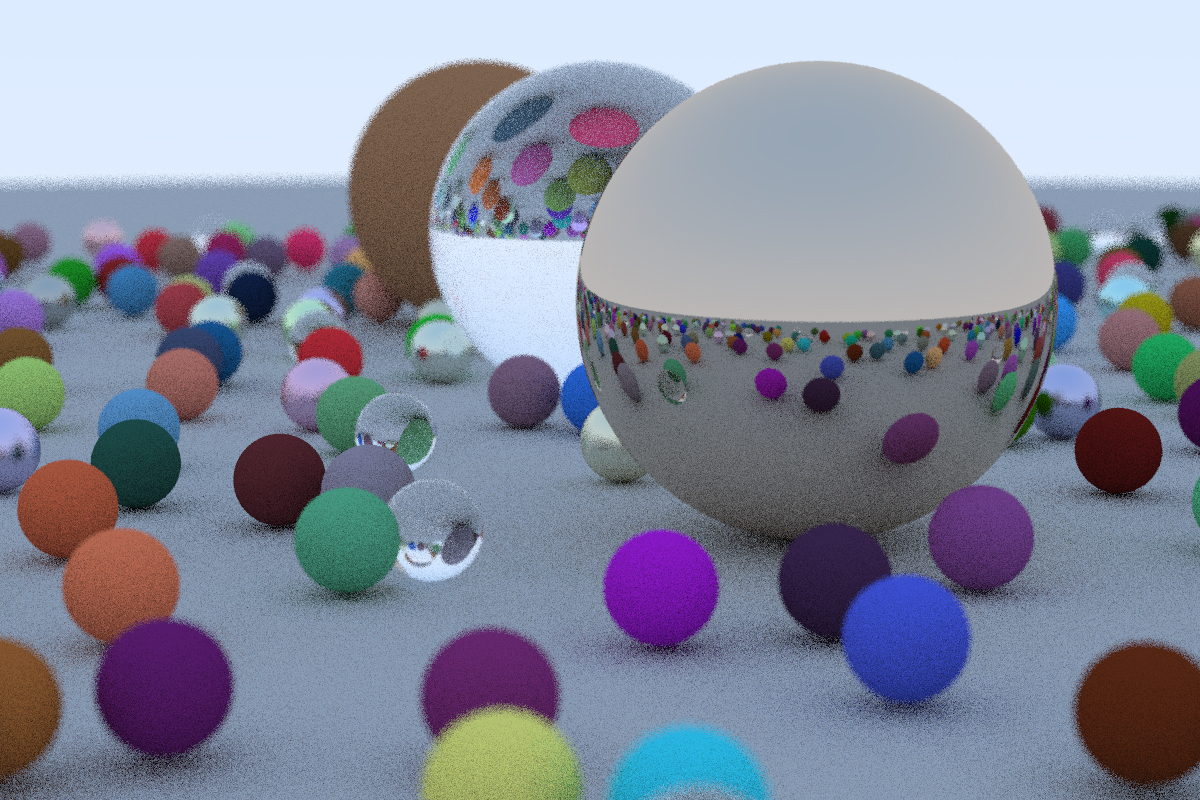
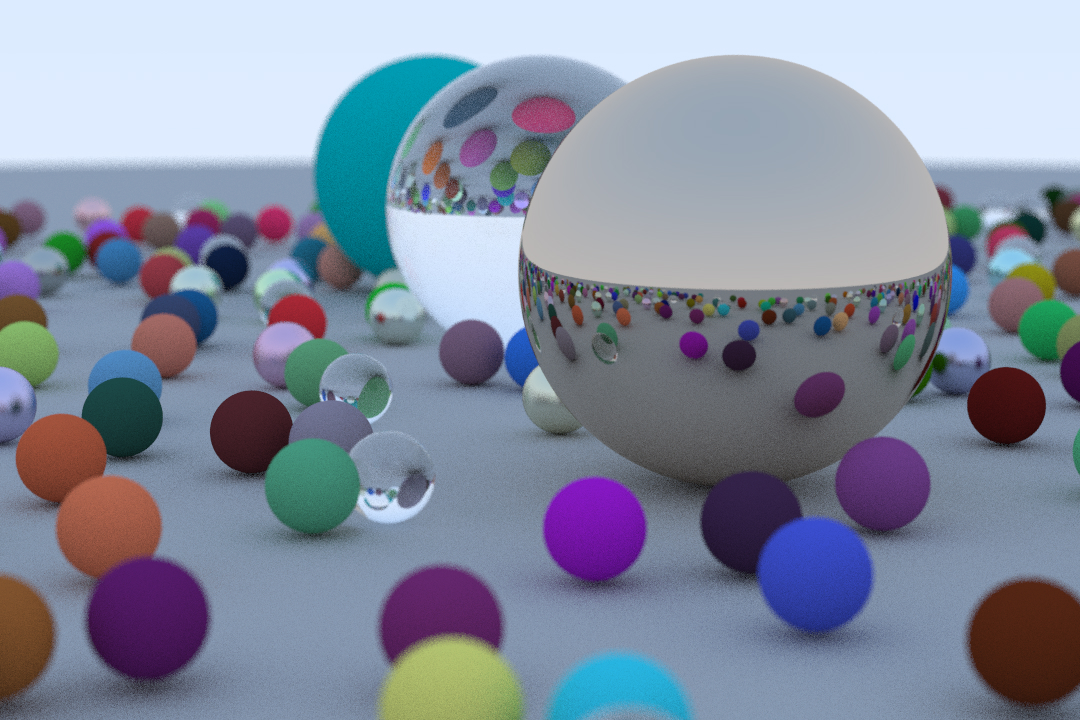
multithreading working

diff --git a/RayTracing-Weekend/main.cpp b/RayTracing-Weekend/main.cpp
@@ -5,6 +5,7 @@
 #include <chrono>
 #include <thread>
 
+
 //jpg output
 #define STB_IMAGE_IMPLEMENTATION
 #define STBI_MSC_SECURE_CRT
@@ -93,7 +94,7 @@ HittableList random_scene() {
     auto material1 = make_shared<Dielectric>(1.5);
     world.add(make_shared<Sphere>(Point3(0, 1, 0), 1.0, material1));
 
-    auto material2 = make_shared<Lambertian>(Color(0.4, 0.2, 0.1));
+    auto material2 = make_shared<Lambertian>(Color(0.0, 0.5, 0.5));
     world.add(make_shared<Sphere>(Point3(-4, 1, 0), 1.0, material2));
 
     auto material3 = make_shared<Metal>(Color(0.7, 0.6, 0.5), 0.0);
@@ -103,11 +104,14 @@ HittableList random_scene() {
 }
 
 int main() {
+    //Time start
+    auto start = std::chrono::high_resolution_clock::now();
+
     //Image
     const auto aspect = 3.0 / 2.0;
-    const int imageWidth = 1200;
+    const int imageWidth = 1080;
     const int imageHeight = static_cast<int>(imageWidth / aspect);
-    const int samplesPerPixel = 8;
+    const int samplesPerPixel = 50;
     const int maxDepth = 50;
     const int channelNumber = 3;
 
@@ -124,37 +128,78 @@ int main() {
     //pixelarray for jpg-output
     uint8_t* pixels = new uint8_t[imageWidth * imageHeight * channelNumber];
 
-    //Time start
-    auto start = std::chrono::high_resolution_clock::now();
+    int numThreads = std::thread::hardware_concurrency();
 
-    //Render
-    int index = 0;
-    for (int j = imageHeight - 1; j >= 0; --j) {
-        //std::cerr << "\rScanlines remaining: " << j << ' ' << std::flush;
-        std::cerr << "\rRendering progress: " << (int)((imageHeight - j) * 100.0) / imageHeight << "% " << std::flush;
-        for (int i = 0; i < imageWidth; ++i) {
-            Color pixelColor(0, 0, 0);
-            for (int s = 0; s < samplesPerPixel; ++s) {
-                auto u = (i + randomD()) / (imageWidth - 1);
-                auto v = (j + randomD()) / (imageHeight - 1);
-                Ray r = camera.getRay(u, v);
-                //Ray r(camera.origin, camera.lowerLeftCorner + u * camera.horizontal + v * camera.vertical - camera.origin);
-                pixelColor += rayColor(r, world,maxDepth);
-            }
-            auto r = pixelColor.getX();
-            auto g = pixelColor.getY();
-            auto b = pixelColor.getZ();
+    int stripHeight = imageHeight / numThreads;
 
-            // Divide the color by the number of samples.
-            auto scale = 1.0 / samplesPerPixel;
-            r = sqrt(scale * r);
-            g = sqrt(scale * g);
-            b = sqrt(scale * b);
+    std::vector<std::thread> threads;
 
-            pixels[index++] = static_cast<int>(256 * clamp(r, 0.0, 0.999));
-            pixels[index++] = static_cast<int>(256 * clamp(g, 0.0, 0.999));
-            pixels[index++] = static_cast<int>(256 * clamp(b, 0.0, 0.999));
+    std::vector<uint8_t*> threadPixels(numThreads);
+
+    for (int t = 0; t < numThreads; ++t) {
+        int startY = t * stripHeight;
+        int endY = (t + 1) * stripHeight;
+
+        // The last thread should render the remaining rows (if any).
+        if (t == numThreads - 1) {
+            endY = imageHeight;
         }
+
+        // Create the pixel array for this thread.
+        threadPixels[t] = new uint8_t[imageWidth * (endY - startY) * channelNumber];
+
+        int tracker = imageHeight;
+
+        // Start a new thread and render the assigned strip.
+        threads.emplace_back([startY, endY, &world, &camera, imageWidth, imageHeight, channelNumber, samplesPerPixel, maxDepth, threadPixels, t, &tracker]() {
+            for (int j = endY - 1; j >= startY; --j) {
+                int scanlineIndex = 0;
+                uint8_t* scanlinePixels = &threadPixels[t][(endY - 1 - j) * imageWidth * channelNumber];
+                for (int i = 0; i < imageWidth; ++i) {
+                    Color pixelColor(0, 0, 0);
+                    for (int s = 0; s < samplesPerPixel; ++s) {
+                        auto u = (i + randomD()) / (imageWidth - 1);
+                        auto v = (j + randomD()) / (imageHeight - 1);
+                        Ray r = camera.getRay(u, v);
+                        pixelColor += rayColor(r, world, maxDepth);
+                    }
+                    auto r = pixelColor.getX();
+                    auto g = pixelColor.getY();
+                    auto b = pixelColor.getZ();
+
+                    // Divide the Color by the number of samples.
+                    auto scale = 1.0 / samplesPerPixel;
+                    r = sqrt(scale * r);
+                    g = sqrt(scale * g);
+                    b = sqrt(scale * b);
+
+                    scanlinePixels[scanlineIndex++] = static_cast<int>(256 * clamp(r, 0.0, 0.999));
+                    scanlinePixels[scanlineIndex++] = static_cast<int>(256 * clamp(g, 0.0, 0.999));
+                    scanlinePixels[scanlineIndex++] = static_cast<int>(256 * clamp(b, 0.0, 0.999));
+                }
+                tracker--;
+                std::cerr << "\rScanlines Left: " << tracker << " ";
+            }
+            });
+    }
+
+    for (auto& thread : threads) {
+        thread.join();
+    }
+
+    int index = 0;
+    for (int t = 0; t < numThreads; ++t) {
+        int startY = t * stripHeight;
+        int endY = (t + 1) * stripHeight;
+        if (t == numThreads - 1) {
+            endY = imageHeight;
+        }
+
+        int start = (imageHeight - endY) * imageWidth * channelNumber;
+        int end = (imageHeight - startY) * imageWidth * channelNumber;
+
+        std::copy(threadPixels[t], threadPixels[t] + (endY - startY) * imageWidth * channelNumber, pixels + start);
+        delete[] threadPixels[t];
     }
 
     // Get the current time point after the operation completes
